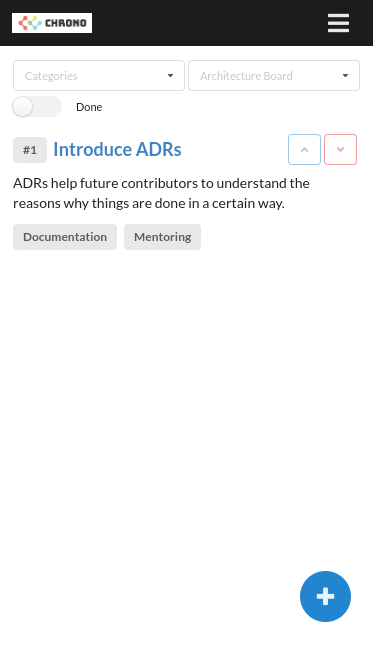
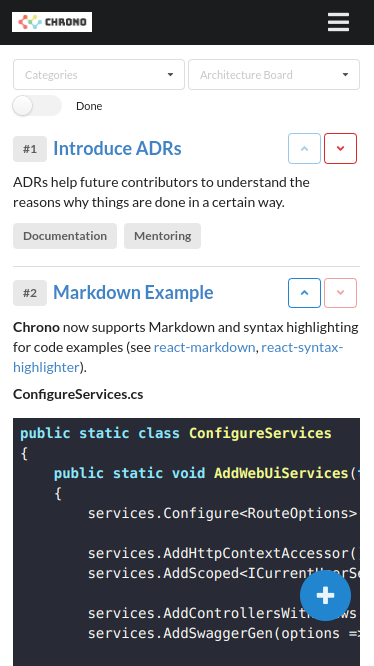
chore: Updated README.md

diff --git a/README.md b/README.md
@@ -8,9 +8,11 @@
 [![CodeScene Code Health](https://codescene.io/projects/41477/status-badges/code-health)](https://codescene.io/projects)
 [![License](https://img.shields.io/badge/License-Apache_2.0-blue.svg)](https://github.com/philipp-meier/Chrono/blob/main/LICENSE)
 
-A simple self-hostable (business) value centric application to organize and priorize ideas / tasks across multiple teams or projects.
+A simple self-hostable (business) value centric application to organize and priorize ideas / tasks across multiple teams
+or projects.
 
-This application was inspired by the [staffeng.com](https://staffeng.com/guides/work-on-what-matters/) blog and is a simple tool to keep track of useful ideas that positively impact your project(s) and therefore - _work on what matters_.
+This application was inspired by the [staffeng.com](https://staffeng.com/guides/work-on-what-matters/) blog and is a
+simple tool to keep track of useful ideas that positively impact your project(s) and therefore - _work on what matters_.
 
 ## Current features
 
@@ -23,8 +25,9 @@ This application was inspired by the [staffeng.com](https://staffeng.com/guides/
 - Multi-user capable with OpenID Connect authentication.
 - **Why**-centric for maximizing impact.
 - Follows security best-practices.
+- Markdown support and syntax highlighting for task descriptions.
 
-## Preview (23th June 2023)
+## Preview (8th September 2023)
 
 ### Home
 
@@ -48,13 +51,15 @@ This application was inspired by the [staffeng.com](https://staffeng.com/guides/
 
 ## Getting started
 
-You will need an empty `sqlite3`-database in the `data`-folder of the project. For this you can execute the following command:
+You will need an empty `sqlite3`-database in the `data`-folder of the project. For this you can execute the following
+command:
 
 ```sh
 sqlite3 chrono.db "VACUUM;"
 ```
 
-Besides the database, you also need an OAuth provider like [auth0](https://auth0.com) and configure the `Authority`, `ClientId` and `ClientSecret` in the `appsettings.json` file of the `WebUI` project.
+Besides the database, you also need an OAuth provider like [auth0](https://auth0.com) and configure
+the `Authority`, `ClientId` and `ClientSecret` in the `appsettings.json` file of the `WebUI` project.
 
 Once that is done, you can run the application with (for example) `dotnet watch` in the `WebUI` folder.
 
